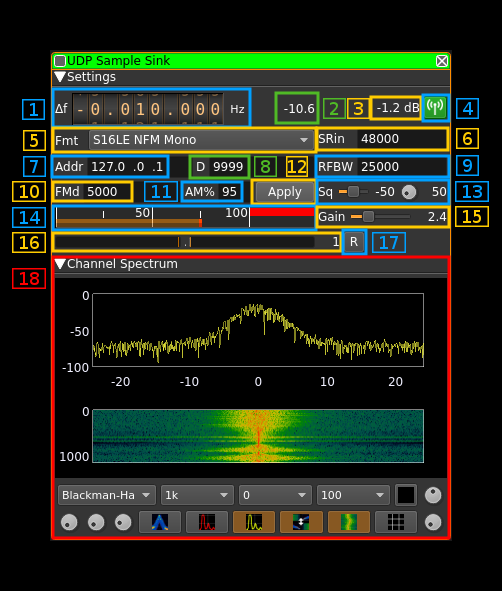
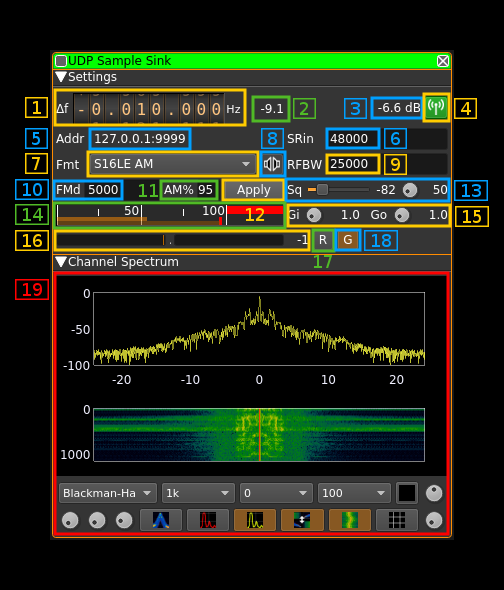
Updated documentation (3)

Changed region(s): [[0.0, 0.0915, 0.9861, 0.9153], [0.8665, 0.0915, 0.8964, 0.122]]

diff --git a/plugins/channeltx/udpsink/readme.md b/plugins/channeltx/udpsink/readme.md
@@ -28,7 +28,17 @@ Total power in dB relative to a +/- 1.0 amplitude signal sent in the channel.
 
 Use this button to switch off the RF on the channel. The background of the button lits in green when a signal can be sent.
 
-<h3>5: Type of samples</h3>
+<h3>5: UDP address and ports</h3>
+
+These parameters are set with the basic channel settings dialog. See: [here](https://github.com/f4exb/sdrangel/blob/master/sdrbase/readme.md#6-channels)
+
+The display is in the format `address:audio port/data port` 
+
+<h3>6: Input sample rate</h3>
+
+Sample rate in samples per second of the signal that is recveived on UDP. The actual byte rate depends on the type of sample which corresponds to a number of bytes per sample.
+
+<h3>7: Type of samples</h3>
 
 Combo box to specify the type of samples that are received and sent in the channel.
 
@@ -40,19 +50,11 @@ Combo box to specify the type of samples that are received and sent in the chann
   - `S16LE LSB Mono`: Takes a mono (1 channel) AF signal and produces a LSB modulated signal.
   - `S16LE USB Mono`: Takes a mono (1 channel) AF signal and produces a USB modulated signal.
   - `S16LE AM Mono`: Takes a mono (1 channel) AF signal and produces a AM modulated signal.
+
+<h3>8: Mono/Stereo input</h3>
+
+This toggles switches between 1 channel (mono) and 2 channels (stereo) input samples format.
   
-<h3>6: Input sample rate</h3>
-
-Sample rate in samples per second of the signal that is recveived on UDP. The actual byte rate depends on the type of sample which corresponds to a number of bytes per sample.
-
-<h3>7: Local IP address</h3>
-
-IP address of the local interface address that listens to UDP samples 
-
-<h3>8: Local data port</h3>
-
-UDP port number that listens to samples 
-
 <h3>9: Output signal bandwidth</h3>
 
 The signal is bandpass filtered to this bandwidth (zero frequency centered) before being sent out in the channel. In SSB modes only half of the filter is used (LSB: lower, USB: upper). Thus to send a signal with 3000 Hz bandwidth a bandwidth of 6000 Hz must be selected. In addition in SSB modes a 300 Hz highpass filter is applied.
@@ -89,9 +91,13 @@ The button sets the delay after which a signal constantly above the squelch thre
 
 The gain (15) should be adjusted so that the peak amplitude (small red vertical bar) never exceeds 100%. Above 100% the signal is clipper which results in distorsion. 
 
-<h3>15: Gain</h3>
+<h3>15: Input and output Gains</h3>
 
-This gain is applied to the samples just before they are filtered and sent int the channel. The gain value appears at the right of the slider.
+Input ("Gi") and output ("Go") gains are placed next to each other.
+
+The input gain is applied to samples received from UDP. The gain value appears at the right of the button.
+
+The output gain is applied to the samples just before they are filtered and sent int the channel. The gain value appears at the right of the button.
 
 <h3>16: Input buffer gauge</h3>
 
@@ -105,7 +111,11 @@ The buffer consists in 512 bytes frames so that a normalized UDP block can be pl
 
 Resets the read and write pointers at their ideal position that is read at start and write at the middle of the buffer. This may cause occasional mess-up with the modulating signal until the read pointer reaches the middle of the buffer.
 
-<h3>16: Spectrum display</h3>
+<h3>18: Automatic R/W balance toggle</h3>
+
+This button enables or disables the automatic read / write pointers balance compensation so that they are always about half a buffer apart. The compensation adjust the sample rate around nominal input sample rate and can cause some tone wiggle on very narrowband modulations. Therefore you can switch it off at the expense of a small buffer section overlap or drop. With an input from the DSD demodulator it can be better to switch it off since the input samples flow is discontinuous and the automatic compensation may not have the time to adjust.
+
+<h3>19: Spectrum display</h3>
 
 This is the spectrum display of the channel signal before filtering. Please refer to the Spectrum display description for details. 
 
